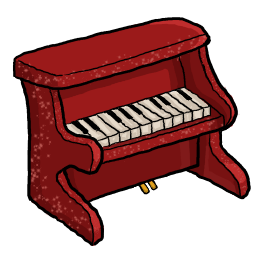
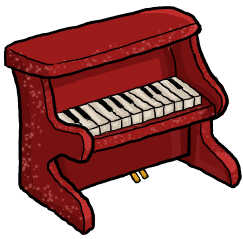
Start of week of 15/05

diff --git a/index.html b/index.html
@@ -24,17 +24,17 @@
     </header> 
   </div>
 
-  <section class="w3-container w3-margin w3-row w3-border images">
-    <div class="w3-container w3-border w3-col w3-center l4 m4 s4">
-      <img src="/images/piano.png" alt="piano" style="width:50%">
+  <section class=" w3-row w3-border images">
+    <div class="box piano w3-col w3-center l4 m4 s12">
+      <img class="piano_img" src="/images/piano.png" alt="piano">
     </div>
 
-    <div class="w3-container w3-margin w3-border w3-col w3-center l4 m4 s4">
-      <img src="/images/guitar.png" alt="guitar" style="width:50%">
+    <div class="box guitar w3-col w3-center l4 m4 s12">
+      <img class="guitar_img" src="/images/guitar.png" alt="electric guitar">
     </div>
 
-    <div class="w3-container w3-border w3-col w3-center l4 m4 s4">
-      <img src="/images/drums.png" alt="drums" style="width:50%">
+    <div class="box drums w3-col w3-center l4 m4 s12">
+      <img class="drums_img" src="/images/drums.png" alt="drums">
     </div>
   </section>
 

diff --git a/style.css b/style.css
@@ -11,7 +11,14 @@ html {
 
 section {
   height: 475px;
+  margin-left: 16px;
+  margin-right: 16px;
+}
+
+.box {
   background-color: #AB977F;
+  height: 400px;
+  border-style: solid;
 }
 
 div h1{
@@ -23,4 +30,32 @@ div h1{
 div h2{
   font-family: 'Aboreto', cursive;
   color: black;
+}
+
+.piano_img {
+  display: block;
+  margin-left: auto;
+  margin-right: auto;
+  width: 50%;
+  scale: 150%;
+  border-style: solid;
+}
+
+.guitar_img {
+  display: block;
+  margin-left: auto;
+  margin-right: auto;
+  width: 50%;
+  scale: 200%;
+  transform: rotate(-45deg);
+  border-style: solid;
+}
+
+.drums_img {
+  display: block;
+  margin-left: auto;
+  margin-right: auto;
+  width: 50%;
+  scale: 150%;
+  border-style: solid;
 }

diff --git a/instructions.html b/instructions.html
@@ -17,6 +17,13 @@
 
 <body>
 
+  <div class="w3-container w3-margin w3-border w3-padding-64 header">
+    <header class="w3-border w3-margin">
+      <h1>The Music Room</h1>
+      <h2>Instructions</h2>
+    </header> 
+    
+  </div>
 
   
 </body>
